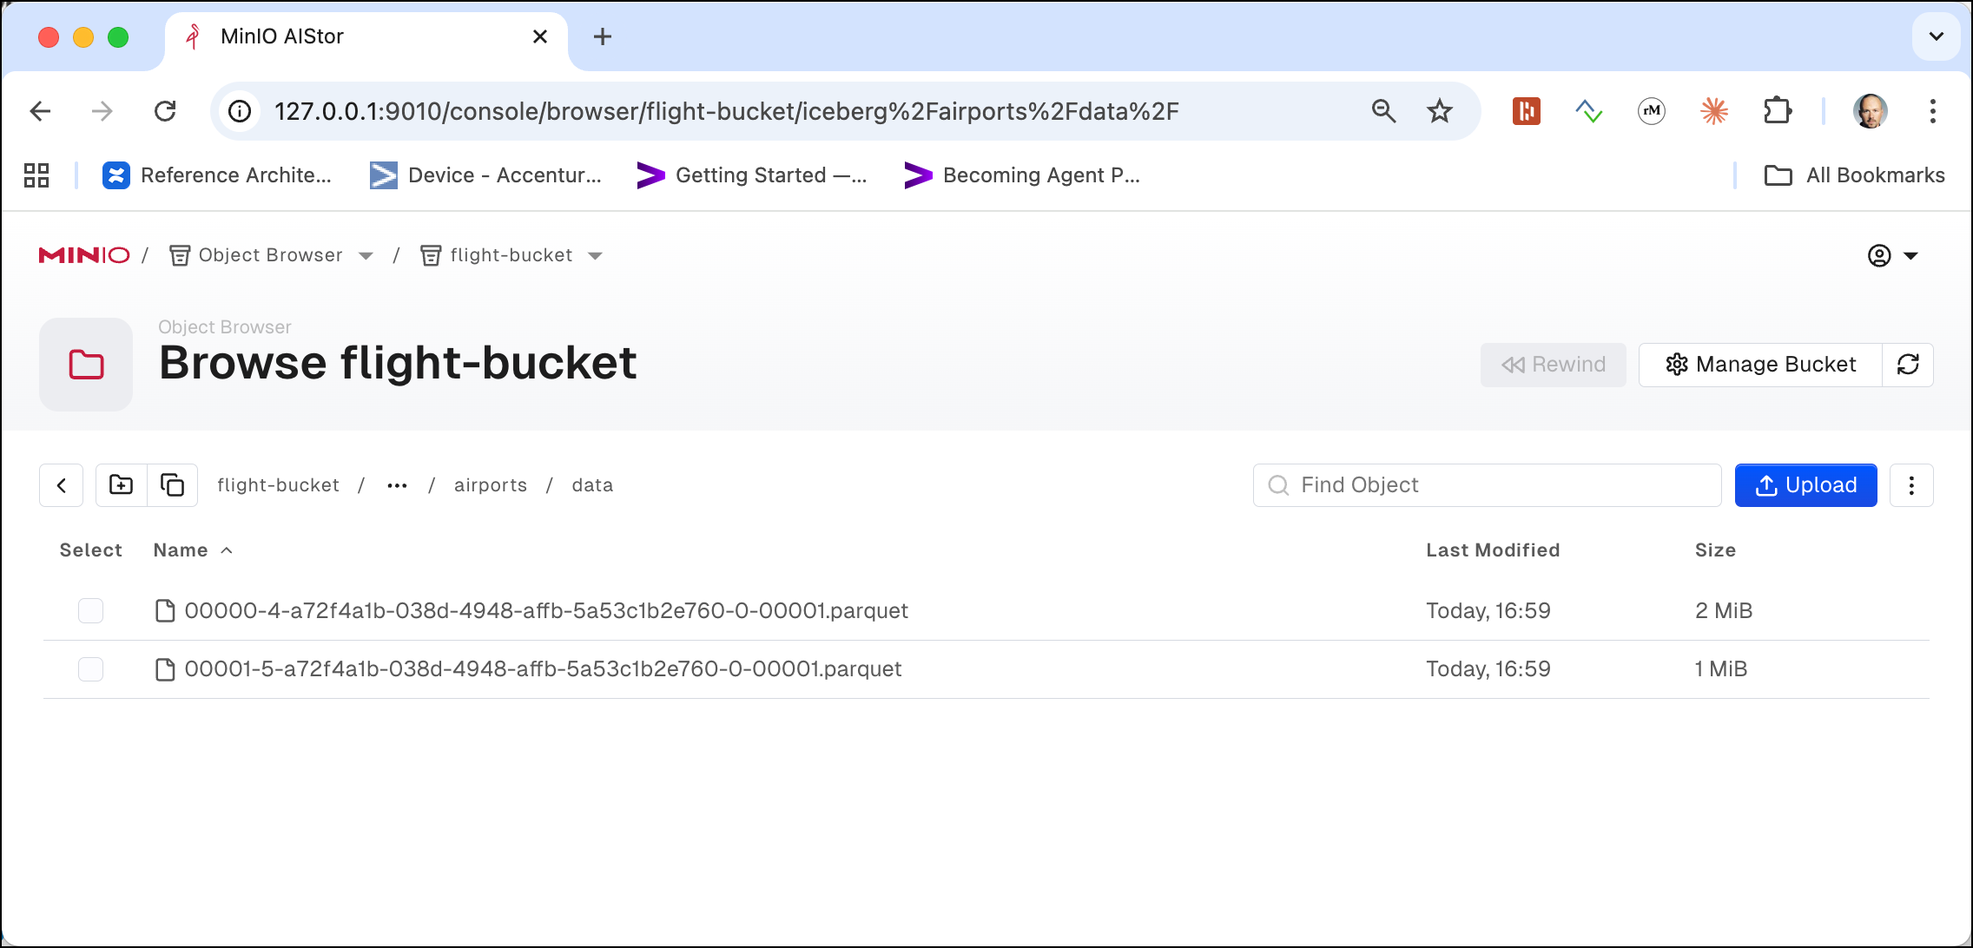
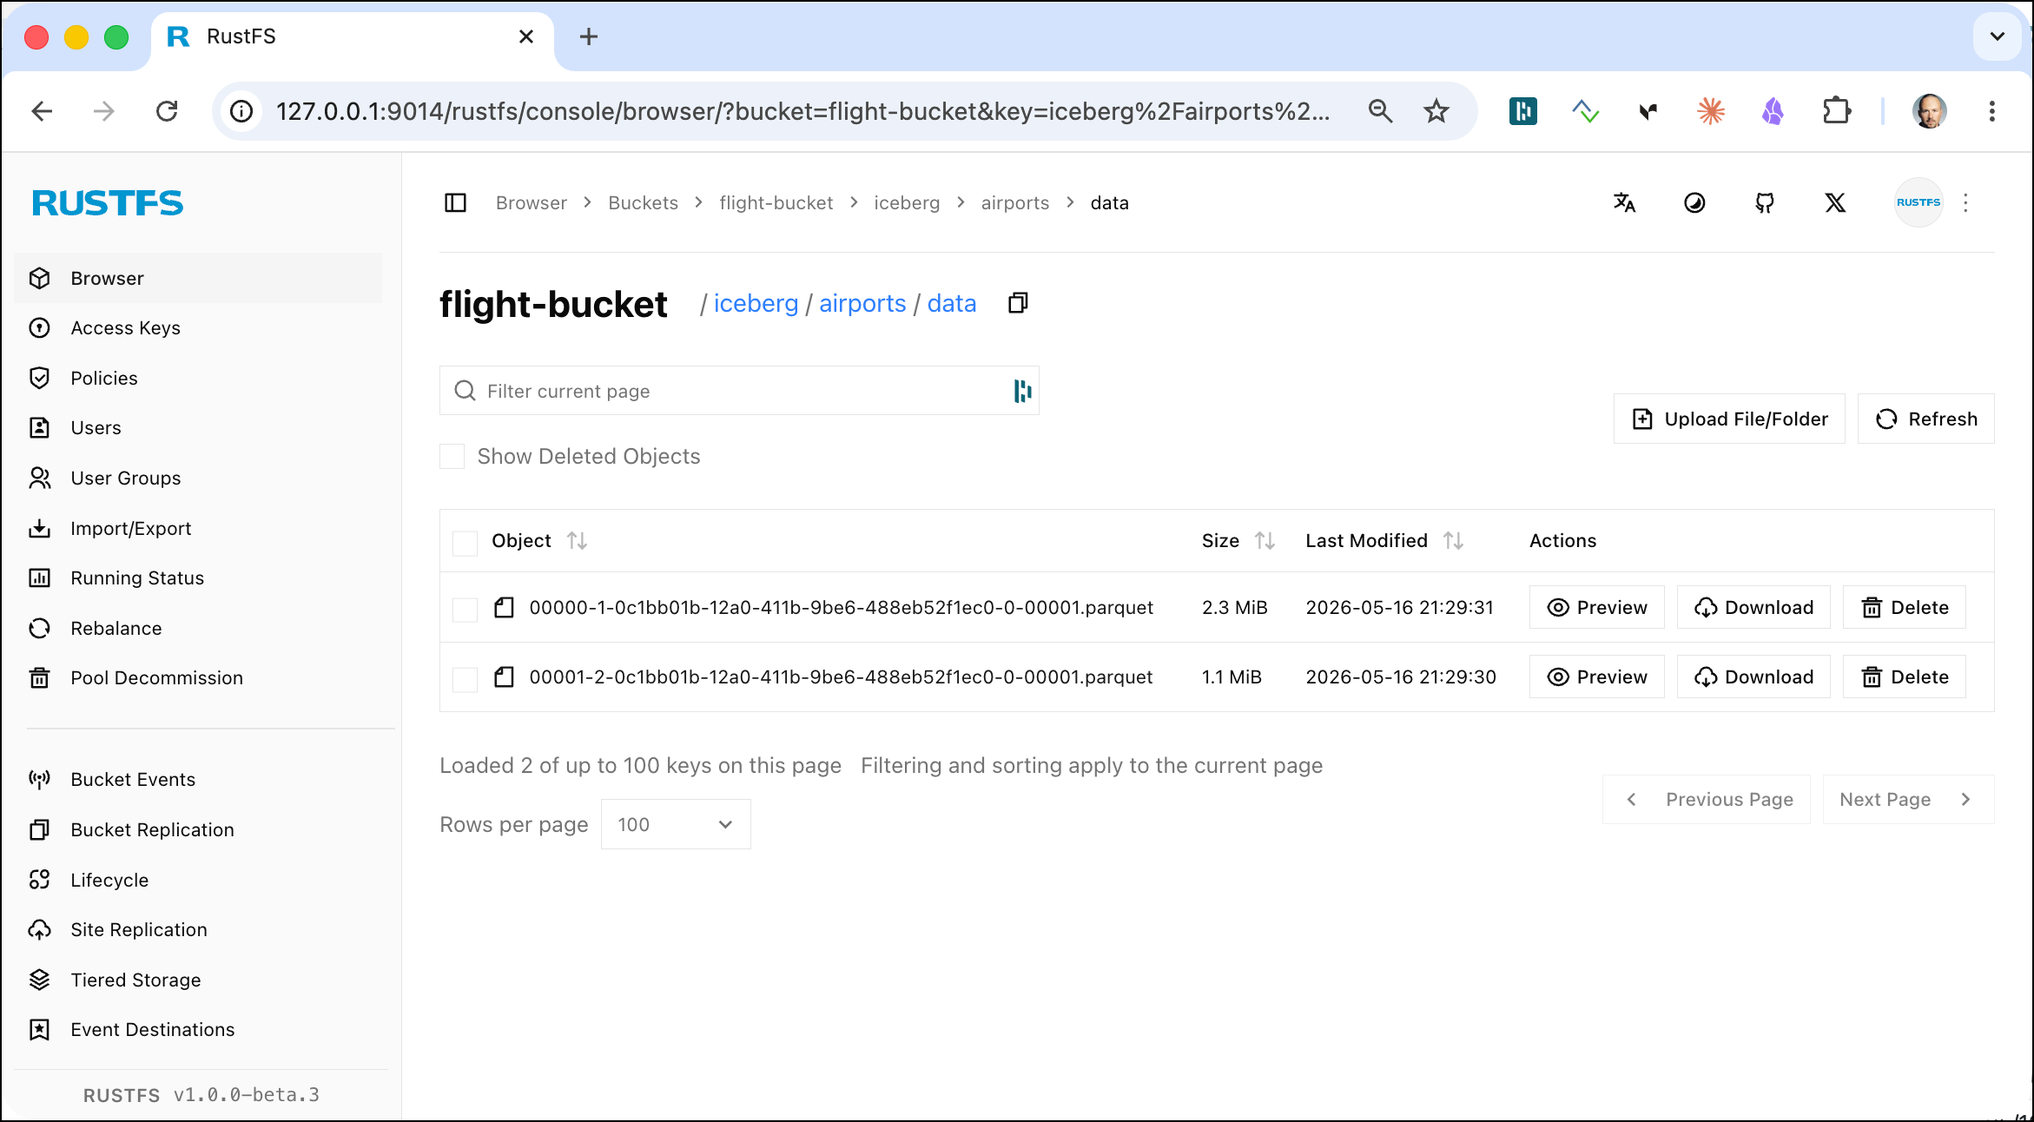
update

diff --git a/07a-spark-iceberg/README.md b/07a-spark-iceberg/README.md
@@ -2,10 +2,6 @@
 
 In this workshop we will work with [Apache Iceberg](https://iceberg.apache.org/), a high performance open-source format for large analytic tables. Iceberg enables the use of SQL tables for big data while making it possible for engines like Spark, Trino, Flink, Presto, Hive, Impala, StarRocks, Doris, and Pig to safely work with the same tables, at the same time.
 
-The same data as in the [Object Storage Workshop](../02a-minio-object-storage/README.md) will be used. We will show later how to re-upload the files, if you no longer have them available.
-
-We assume that you have done Workshop 3 **Getting Started using Spark RDD and DataFrames**, where you have learnt how to use Spark from Apache Zeppelin or Jupyter Notebook.
-
 ## Table of Contents
 
 - [What you will learn](#what-you-will-learn)
@@ -35,7 +31,7 @@ We assume that you have done Workshop 3 **Getting Started using Spark RDD and Da
 
 ## Prepare the data, if no longer available
 
-The data needed here has been uploaded in workshop 2a - [Working with MinIO Object Storage](../02a-minio-object-storage). You can skip this section, if you still have the data available in MinIO.
+The data needed here has been uploaded in workshop 2 - [Working with RustFS Object Storage](01b-rustfs-object-storage). You can skip this section, if you still have the data available in Object Storage. We show both `s3cmd` and the `mc` version of the commands:
 
 Create the flight bucket:
 
@@ -43,22 +39,10 @@ Create the flight bucket:
 docker exec -ti awscli s3cmd mb s3://flight-bucket
 ```
 
-or with `mc`
-
-```bash
-docker exec -ti minio-mc mc mb minio-1/flight-bucket
-```
-
-**Airports**:
+Upload the data
 
 ```bash
 docker exec -ti awscli s3cmd put /data-transfer/airport-data/airports.csv s3://flight-bucket/raw/airports/airports.csv
-```
-
-or with `mc`
-
-```bash
-docker exec -ti minio-mc mc cp /data-transfer/airport-data/airports.csv minio-1/flight-bucket/raw/airports/airports.csv
 ```
 
 ## Working with Spark and Iceberg table
@@ -93,7 +77,7 @@ spark = (
                 "org.apache.iceberg:iceberg-aws-bundle:1.10.1")
 
         .config("spark.hadoop.fs.s3a.impl", "org.apache.hadoop.fs.s3a.S3AFileSystem")
-        .config("spark.hadoop.fs.s3a.endpoint", "http://minio-1:9000")
+        .config("spark.hadoop.fs.s3a.endpoint", "http://rustfs-1:9000")
         .config("spark.hadoop.fs.s3a.path.style.access", "true")
         .config("spark.hadoop.fs.s3a.access.key", accessKey)
         .config("spark.hadoop.fs.s3a.secret.key", secretKey)
@@ -105,8 +89,8 @@ spark = (
         .config("spark.sql.catalog.hive_iceberg.uri", "thrift://hive-metastore:9083")
         .config("spark.sql.catalog.hive_iceberg.warehouse.dir", "s3a://admin-bucket/iceberg/warehouse")
 
-        # ==== REQUIRED FOR MINIO WITH ICEBERG AWS SDK ===
-        .config("spark.sql.catalog.hiverest.s3.endpoint", "http://minio-1:9000")
+        # ==== REQUIRED FOR RUSTFS WITH ICEBERG AWS SDK ===
+        .config("spark.sql.catalog.hiverest.s3.endpoint", "http://rustfs-1:9000")
         .config("spark.sql.catalog.hiverest.s3.path-style-access", "true")
         .config("spark.sql.catalog.hiverest.s3.access-key-id", accessKey)
         .config("spark.sql.catalog.hiverest.s3.secret-access-key", secretKey)
@@ -164,11 +148,18 @@ First import the required Spark Python API. Don't forget to add the `%pyspark` d
 from pyspark.sql.types import *
 ```
 
-Next let's import the airports data into a DataFrame and show the first 5 rows. We use `header=true` to use the header line for naming the columns and specify to infer the schema.
+Next let's import the airports data into a DataFrame and show the first 5 rows. We define the schema explicitly instead of inferring it, which avoids the double-scan and gives us stable types.
 
 ```python
+airportSchema = "`id` INTEGER, `ident` STRING, `type` STRING, `name` STRING, \
+    `latitude_deg` DOUBLE, `longitude_deg` DOUBLE, `elevation_ft` INTEGER, \
+    `continent` STRING, `iso_country` STRING, `iso_region` STRING, \
+    `municipality` STRING, `scheduled_service` STRING, `gps_code` STRING, \
+    `iata_code` STRING, `local_code` STRING, `home_link` STRING, \
+    `wikipedia_link` STRING, `keywords` STRING"
+
 airportsRawDF = spark.read.csv("s3a://flight-bucket/raw/airports",
-        sep=",", inferSchema="true", header="true")
+        sep=",", inferSchema="false", header="true", schema=airportSchema)
 airportsRawDF.show(5)
 ```
 
@@ -191,7 +182,7 @@ Now let's write the data as an Iceberg table. We use the `hive_iceberg` catalog 
 
 you can either do it using `spark.sql()` to execute the Spark SQL statement
 
-```
+```python
 spark.sql("CREATE NAMESPACE IF NOT EXISTS hive_iceberg.flight_iceberg_db LOCATION 's3a://flight-bucket/iceberg/'")
 ```
 
@@ -225,14 +216,18 @@ docker exec -ti awscli s3cmd ls --recursive s3://flight-bucket/iceberg/airports/
 and you should see that the data has been written as parquet files under a `data/` folder, with an `metadata/` folder holding the Iceberg metadata
 
 ```bash
-2026-04-03 14:59      2374368  s3://flight-bucket/iceberg/airports/data/00000-4-a72f4a1b-038d-4948-affb-5a53c1b2e760-0-00001.parquet
-2026-04-03 14:59      1146523  s3://flight-bucket/iceberg/airports/data/00001-5-a72f4a1b-038d-4948-affb-5a53c1b2e760-0-00001.parquet
-2026-04-03 14:59         2625  s3://flight-bucket/iceberg/airports/metadata/00000-a3a8f4fb-d2a0-4fe3-8299-f4269e825934.metadata.json
-2026-04-03 14:59         8921  s3://flight-bucket/iceberg/airports/metadata/a5701d5a-cc2e-4f1a-a845-d7a07c072411-m0.avro
-2026-04-03 14:59         4453  s3://flight-bucket/iceberg/airports/metadata/snap-1164668163188701807-1-a5701d5a-cc2e-4f1a-a845-d7a07c072411.avro
+2026-05-16 19:29      2374368  s3://flight-bucket/iceberg/airports/data/00000-1-0c1bb01b-12a0-411b-9be6-488eb52f1ec0-0-00001.parquet
+2026-05-16 19:29      1146523  s3://flight-bucket/iceberg/airports/data/00001-2-0c1bb01b-12a0-411b-9be6-488eb52f1ec0-0-00001.parquet
+2026-05-16 19:29         2627  s3://flight-bucket/iceberg/airports/metadata/00000-e36c1de3-1ae9-4fd7-9eb8-d63c35e77414.metadata.json
+2026-05-16 19:29         8919  s3://flight-bucket/iceberg/airports/metadata/e9cb0981-23fb-4ecb-8804-01cca870cfaf-m0.avro
+2026-05-16 19:29         4453  s3://flight-bucket/iceberg/airports/metadata/snap-4461469077893463285-1-e9cb0981-23fb-4ecb-8804-01cca870cfaf.avro
 ```
 
-We can also use the MinIO Aistor Console to see the data.
+> **What you should see:** Two Parquet data files in `data/` and three metadata files in `metadata/`: a `.metadata.json` (the table's top-level catalog entry), a `-m0.avro` manifest file (listing all data files with their statistics), and a `snap-...avro` snapshot file (the manifest list for this snapshot). This three-level metadata hierarchy is more complex than Delta Lake's single JSON log but enables the concurrent, multi-engine access that makes Iceberg unique.
+
+> **What just happened?** `writeTo().create()` registered the table in the Hive Metastore catalog (`hive_iceberg`) and wrote both the Parquet data files and the complete Iceberg metadata tree. Unlike Delta Lake's append-only JSON log, Iceberg uses immutable files at every level: the metadata JSON points to a snapshot Avro file, which points to a manifest list Avro file, which in turn references the actual Parquet data files. This immutability is what allows Iceberg to support concurrent reads and writes from different engines (Spark, Trino, Flink) against the same table simultaneously.
+
+We can also use the RustFS Console to see the data.
 
 ![Alt Image Text](images/spark-iceberg-1st-write.png "Spark Iceberg 1st write")
 
@@ -248,7 +243,7 @@ click on the `metadata/` folder to see the datafiles behind the iceberg table
 
 Unlike Delta Lake which uses plain JSON files for its transaction log, Iceberg uses a combination of JSON metadata files and Avro manifest files.
 
-Let's download and inspect the initial table metadata JSON file (replace `<snapshot-id>` by the correct UUID (`00000-a3a8f4fb-d2a0-4fe3-8299-f4269e825934` in the case here):
+Let's download and inspect the initial table metadata JSON file (replace `<snapshot-id>` by the correct UUID (`00000-e36c1de3-1ae9-4fd7-9eb8-d63c35e77414` in the case here):
 
 ```bash
 docker exec -ti awscli s3cmd get s3://flight-bucket/iceberg/airports/metadata/<snapshot-id>.metadata.json --force /data-transfer/iceberg-metadata.json
@@ -266,10 +261,10 @@ you should see content similar to the one shown below
 ```json
 {
   "format-version": 2,
-  "table-uuid": "d6b63989-1c5d-4c12-9387-5f5362e85a93",
+  "table-uuid": "f5f89db8-a51e-42b0-bb55-7aa58346300a",
   "location": "s3a://flight-bucket/iceberg/airports",
   "last-sequence-number": 1,
-  "last-updated-ms": 1775228381914,
+  "last-updated-ms": 1778959772104,
   "last-column-id": 18,
   "current-schema-id": 0,
   "schemas": [
@@ -404,24 +399,24 @@ you should see content similar to the one shown below
     }
   ],
   "properties": {
-    "owner": "root",
+    "owner": "jovyan",
     "write.parquet.compression-codec": "zstd"
   },
-  "current-snapshot-id": 1164668163188701807,
+  "current-snapshot-id": 4461469077893463285,
   "refs": {
     "main": {
-      "snapshot-id": 1164668163188701807,
+      "snapshot-id": 4461469077893463285,
       "type": "branch"
     }
   },
   "snapshots": [
     {
       "sequence-number": 1,
-      "snapshot-id": 1164668163188701807,
-      "timestamp-ms": 1775228381914,
+      "snapshot-id": 4461469077893463285,
+      "timestamp-ms": 1778959772104,
       "summary": {
         "operation": "append",
-        "spark.app.id": "app-20260403145823-0001",
+        "spark.app.id": "app-20260516192853-0011",
         "added-data-files": "2",
         "added-records": "81193",
         "added-files-size": "3520891",
@@ -433,11 +428,11 @@ you should see content similar to the one shown below
         "total-position-deletes": "0",
         "total-equality-deletes": "0",
         "engine-version": "3.5.3",
-        "app-id": "app-20260403145823-0001",
+        "app-id": "app-20260516192853-0011",
         "engine-name": "spark",
         "iceberg-version": "Apache Iceberg 1.10.1 (commit ccb8bc435062171e64bc8b7e5f56e6aed9c5b934)"
       },
-      "manifest-list": "s3a://flight-bucket/iceberg/airports/metadata/snap-1164668163188701807-1-a5701d5a-cc2e-4f1a-a845-d7a07c072411.avro",
+      "manifest-list": "s3a://flight-bucket/iceberg/airports/metadata/snap-4461469077893463285-1-e9cb0981-23fb-4ecb-8804-01cca870cfaf.avro",
       "schema-id": 0
     }
   ],
@@ -445,8 +440,8 @@ you should see content similar to the one shown below
   "partition-statistics": [],
   "snapshot-log": [
     {
-      "timestamp-ms": 1775228381914,
-      "snapshot-id": 1164668163188701807
+      "timestamp-ms": 1778959772104,
+      "snapshot-id": 4461469077893463285
     }
   ],
   "metadata-log": []
@@ -476,6 +471,10 @@ you should get a result with one row, similar to shown below
 |2026-04-03 14:59:41.914|1164668163188701807|NULL     |append   |s3a://flight-bucket/iceberg/airports/metadata/snap-1164668163188701807-1-a5701d5a-cc2e-4f1a-a845-d7a07c072411.avro|{spark.app.id -> app-20260403145823-0001, added-data-files -> 2, added-records -> 81193, added-files-size -> 3520891, changed-partition-count -> 1, total-records -> 81193, total-files-size -> 3520891, total-data-files -> 2, total-delete-files -> 0, total-position-deletes -> 0, total-equality-deletes -> 0, engine-version -> 3.5.3, app-id -> app-20260403145823-0001, engine-name -> spark, iceberg-version -> Apache Iceberg 1.10.1 (commit ccb8bc435062171e64bc8b7e5f56e6aed9c5b934)}|
 +-----------------------+-------------------+---------+---------+------------------------------------------------------------------------------------------------------------------+------------------------------------------------------------------------------------------------------------------------------------------------------------------------------------------------------------------------------------------------------------------------------------------------------------------------------------------------------------------------------------------------------------------------------------------------------------------------------------------------+
 ```
+
+> **What you should see:** One snapshot row with operation `append`, showing the commit timestamp and a summary map containing statistics such as `added-data-files -> 2`, `added-records -> 81193`, and `total-records -> 81193`. The `manifest_list` column provides the S3 path to the Avro snapshot file for this operation.
+
+> **What just happened?** Iceberg stores all table history as an append-only sequence of snapshots. The `.snapshots` suffix on the table name is an Iceberg metadata table — a special virtual table that Iceberg exposes so you can query table history using plain SQL, without downloading and parsing raw Avro files. Every write operation to an Iceberg table creates a new snapshot, and the metadata tables give you a SQL interface to inspect them.
 
 ```python
 spark.sql("SELECT * FROM hive_iceberg.flight_iceberg_db.airports.history").show(truncate=False)
@@ -532,20 +531,20 @@ docker exec -ti awscli s3cmd ls --recursive s3://flight-bucket/iceberg/airports/
 and you should see that new data files have been written, and that a new metadata JSON file and a new snapshot Avro file have been created in the `metadata/` folder
 
 ```bash
-2026-04-03 15:18      1261619  s3://flight-bucket/iceberg/airports/data/00000-19-2e12a916-0cbd-411b-ae76-647ff66e6a1d-0-00001.parquet
-2026-04-03 14:59      2374368  s3://flight-bucket/iceberg/airports/data/00000-4-a72f4a1b-038d-4948-affb-5a53c1b2e760-0-00001.parquet
-2026-04-03 15:18      1290332  s3://flight-bucket/iceberg/airports/data/00001-20-2e12a916-0cbd-411b-ae76-647ff66e6a1d-0-00001.parquet
-2026-04-03 14:59      1146523  s3://flight-bucket/iceberg/airports/data/00001-5-a72f4a1b-038d-4948-affb-5a53c1b2e760-0-00001.parquet
-2026-04-03 14:59         2625  s3://flight-bucket/iceberg/airports/metadata/00000-a3a8f4fb-d2a0-4fe3-8299-f4269e825934.metadata.json
-2026-04-03 15:18         3712  s3://flight-bucket/iceberg/airports/metadata/00001-48b598d9-f6ec-47e3-8566-85b4758ec402.metadata.json
-2026-04-03 15:18         8933  s3://flight-bucket/iceberg/airports/metadata/48b85f13-5a8a-428f-a2d4-f9e12d16aa05-m0.avro
-2026-04-03 15:18         8833  s3://flight-bucket/iceberg/airports/metadata/48b85f13-5a8a-428f-a2d4-f9e12d16aa05-m1.avro
-2026-04-03 14:59         8921  s3://flight-bucket/iceberg/airports/metadata/a5701d5a-cc2e-4f1a-a845-d7a07c072411-m0.avro
-2026-04-03 14:59         4453  s3://flight-bucket/iceberg/airports/metadata/snap-1164668163188701807-1-a5701d5a-cc2e-4f1a-a845-d7a07c072411.avro
-2026-04-03 15:18         4496  s3://flight-bucket/iceberg/airports/metadata/snap-4018939087453753958-1-48b85f13-5a8a-428f-a2d4-f9e12d16aa05.avro
+2026-05-16 19:29      2374368  s3://flight-bucket/iceberg/airports/data/00000-1-0c1bb01b-12a0-411b-9be6-488eb52f1ec0-0-00001.parquet
+2026-05-16 19:44      1261619  s3://flight-bucket/iceberg/airports/data/00000-21-d51e048e-a3bb-4141-a718-bd1010ac86e9-0-00001.parquet
+2026-05-16 19:29      1146523  s3://flight-bucket/iceberg/airports/data/00001-2-0c1bb01b-12a0-411b-9be6-488eb52f1ec0-0-00001.parquet
+2026-05-16 19:44      1290332  s3://flight-bucket/iceberg/airports/data/00001-22-d51e048e-a3bb-4141-a718-bd1010ac86e9-0-00001.parquet
+2026-05-16 19:29         2627  s3://flight-bucket/iceberg/airports/metadata/00000-e36c1de3-1ae9-4fd7-9eb8-d63c35e77414.metadata.json
+2026-05-16 19:44         3714  s3://flight-bucket/iceberg/airports/metadata/00001-ea6471e9-c08a-4a8f-8a5d-0045c72740e7.metadata.json
+2026-05-16 19:44         8932  s3://flight-bucket/iceberg/airports/metadata/2c966610-a941-4e15-b985-343decf3f392-m0.avro
+2026-05-16 19:44         8832  s3://flight-bucket/iceberg/airports/metadata/2c966610-a941-4e15-b985-343decf3f392-m1.avro
+2026-05-16 19:29         8919  s3://flight-bucket/iceberg/airports/metadata/e9cb0981-23fb-4ecb-8804-01cca870cfaf-m0.avro
+2026-05-16 19:29         4453  s3://flight-bucket/iceberg/airports/metadata/snap-4461469077893463285-1-e9cb0981-23fb-4ecb-8804-01cca870cfaf.avro
+2026-05-16 19:44         4497  s3://flight-bucket/iceberg/airports/metadata/snap-8541851118740059401-1-2c966610-a941-4e15-b985-343decf3f392.avro
 ```
 
-We can also see the snapshots via the metadata table:
+We can also alternatively use the RustFS console to see the data
 
 ![Alt Image Text](images/spark-iceberg-1st-merge.png "Spark Iceberg 1st merge")
 
@@ -565,6 +564,10 @@ You should now see two snapshots — the initial `append` and a new `overwrite` 
 |2026-04-03 15:18:49.759|4018939087453753958|1164668163188701807|overwrite|s3a://flight-bucket/iceberg/airports/metadata/snap-4018939087453753958-1-48b85f13-5a8a-428f-a2d4-f9e12d16aa05.avro|{spark.app.id -> app-20260403145823-0001, added-data-files -> 2, deleted-data-files -> 1, added-records -> 54025, deleted-records -> 54024, added-files-size -> 2551951, removed-files-size -> 2374368, changed-partition-count -> 1, total-records -> 81194, total-files-size -> 3698474, total-data-files -> 3, total-delete-files -> 0, total-position-deletes -> 0, total-equality-deletes -> 0, engine-version -> 3.5.3, app-id -> app-20260403145823-0001, engine-name -> spark, iceberg-version -> Apache Iceberg 1.10.1 (commit ccb8bc435062171e64bc8b7e5f56e6aed9c5b934)}|
 +-----------------------+-------------------+-------------------+---------+------------------------------------------------------------------------------------------------------------------+----------------------------------------------------------------------------------------------------------------------------------------------------------------------------------------------------------------------------------------------------------------------------------------------------------------------------------------------------------------------------------------------------------------------------------------------------------------------------------------------------------------------------------------------------------------------------------+
 ```
+
+> **What you should see:** Two snapshot rows — the initial `append` and a new `overwrite` from the MERGE. The overwrite snapshot's summary shows `added-data-files -> 2`, `deleted-data-files -> 1`, `added-records -> 54025`, and `deleted-records -> 54024`, confirming that the affected partition file was rewritten with the upserted rows.
+
+> **What just happened?** Iceberg's MERGE INTO rewrote the file containing the affected row ("00A") and created a new snapshot. Unlike Delta Lake's append-only JSON log, Iceberg updates the manifest entry for the rewritten file — the old manifest becomes part of the previous snapshot only, while the new snapshot references both the surviving old files and the newly written ones. This immutable snapshot-per-operation model is what allows Iceberg to serve concurrent reads from a previous snapshot while a write is in progress on the same table.
 
 Let's use SQL to query the Iceberg table either using `spark.sql()` 
 
@@ -607,6 +610,10 @@ The output will show how many files were rewritten:
 |                         3|                    83|              3698474|                      0|                         0|
 +--------------------------+----------------------+---------------------+-----------------------+--------------------------+
 ```
+
+> **What you should see:** The procedure rewrote all 3 existing data files into 83 new files (smaller target file size splits the data into more files). `rewritten_bytes_count` matches the total size of the input files, confirming all data was processed.
+
+> **What just happened?** `rewrite_data_files` compacted the three Parquet files into smaller, more uniformly sized files targeting 128 MB each (the `target-file-size-bytes` setting). This creates a new Iceberg snapshot with the rewritten files while the old files are retained until `expire_snapshots` removes them. Compaction is a maintenance operation — it does not change the logical table content, only the physical file layout to improve read performance.
 
 ## Read older versions of data using time travel
 
@@ -653,7 +660,6 @@ spark.sql(f"""
 **Time travel by timestamp** — you can also use a timestamp string:
 
 ```python
-%pyspark
 timestamp = str(snapshots[0]["committed_at"])
 print ("Redcover to timestamp: " + commitedAt)
 
@@ -695,6 +701,10 @@ The output shows how many snapshots and files were removed (because we defined 7
 |                       0|                                  0|                                  0|                           0|                           0|                             0|
 +------------------------+-----------------------------------+-----------------------------------+----------------------------+----------------------------+------------------------------+
 ```
+
+> **What you should see:** All counts show `0` — no snapshots, manifests, or data files were removed. This is expected because the retention window is 7 days and all snapshots in this workshop are only minutes old.
+
+> **What just happened?** `expire_snapshots` removes snapshot metadata entries and any data files no longer referenced by a surviving snapshot, freeing up storage space. The 7-day retention period is a safety guard: it prevents removing snapshots that upstream consumers may still be reading via time travel. In production you would schedule this procedure as regular table maintenance, equivalent to Delta Lake's `VACUUM` command.
 
 You can also remove orphan files (data files not referenced by any snapshot) using:
 
